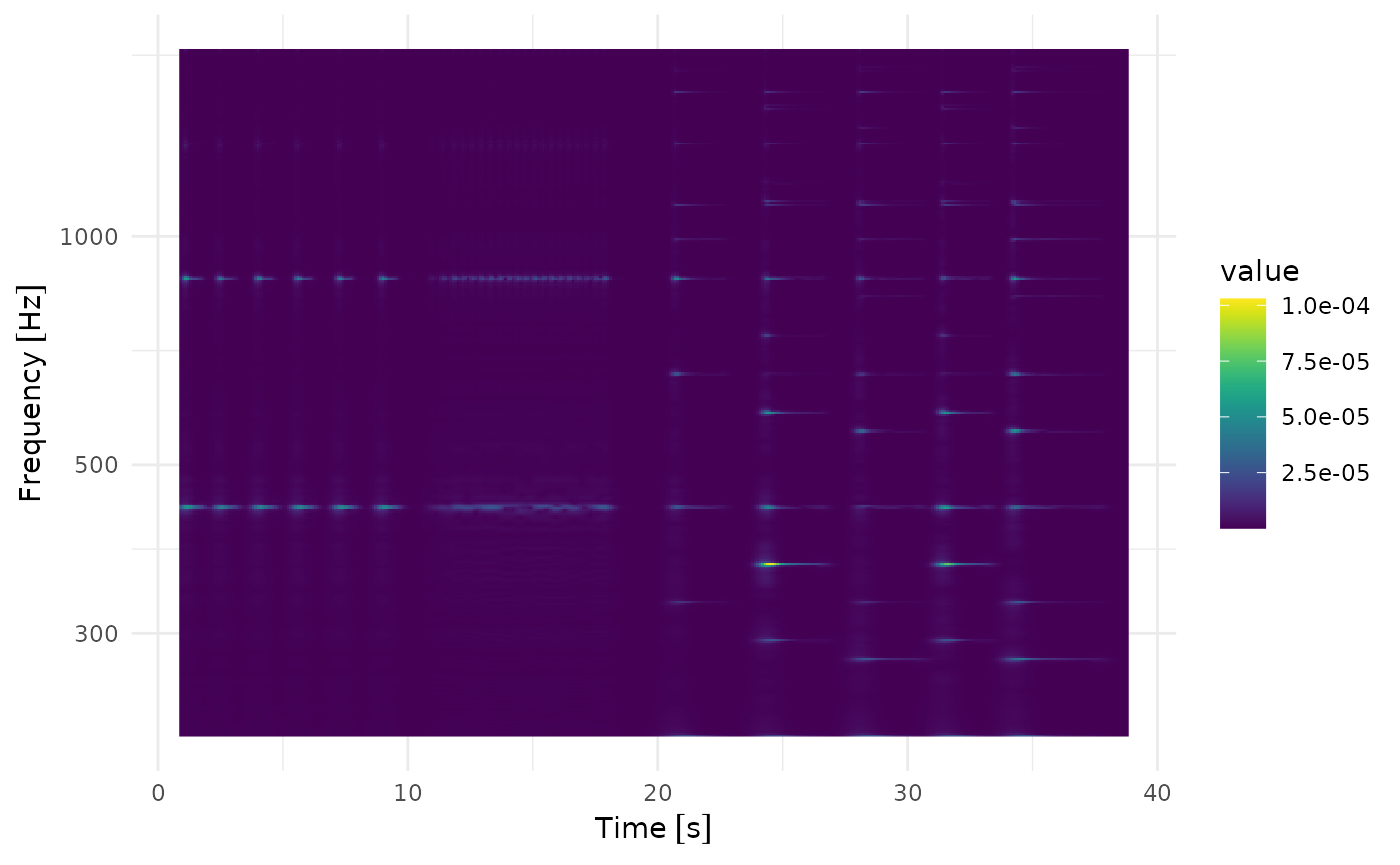
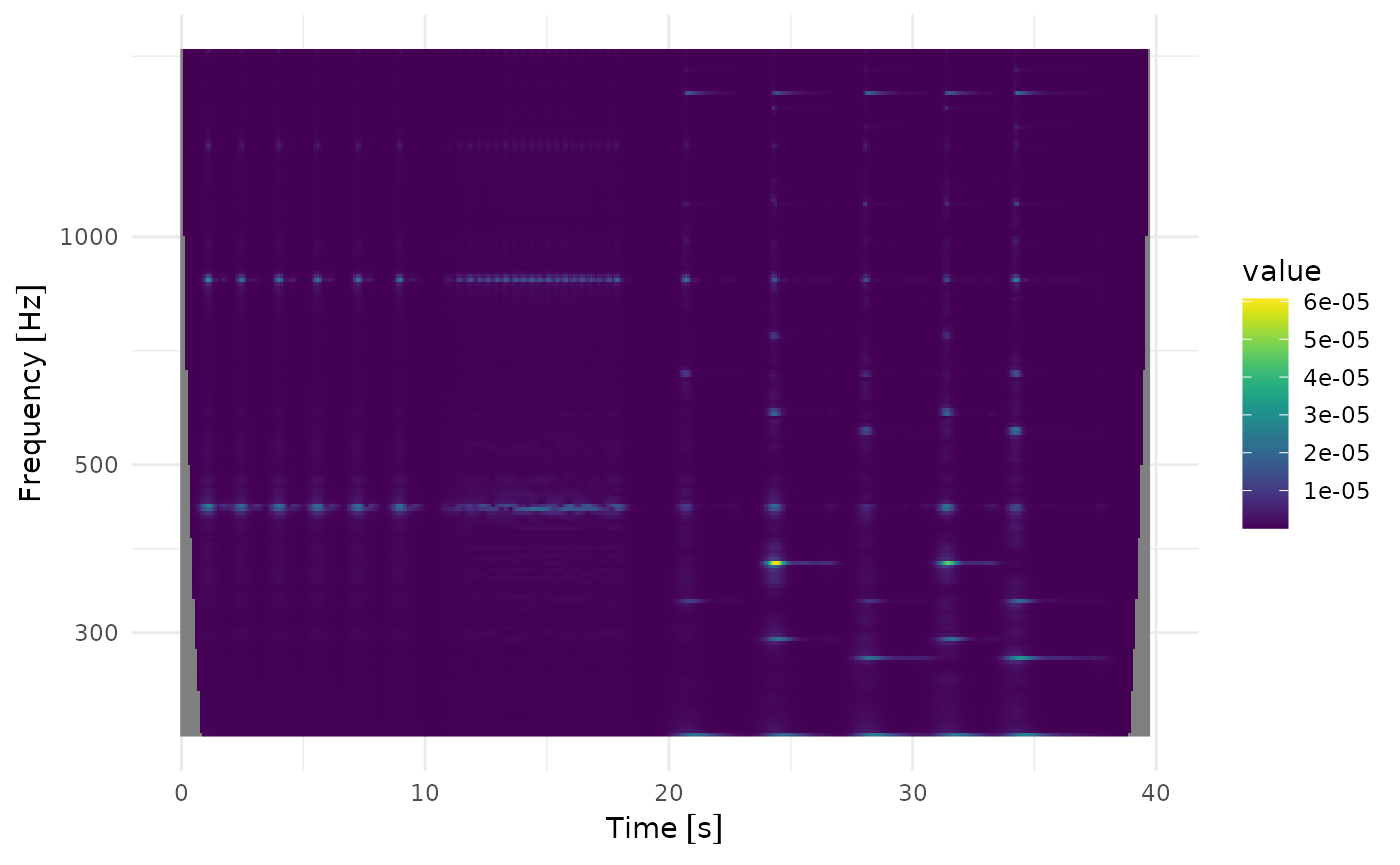
Deploying to gh-pages from @ lschneiderbauer/fCWTr@2b04123b9d5583991bd786f4ff58955c7fd760d0 🚀

diff --git a/articles/sigma.html b/articles/sigma.html
@@ -178,16 +178,14 @@ and some simple chords in the end.</p>
 <span><span class="co">#&gt; Error in get(paste0(generic, ".", class), envir = get_method_env()) : </span></span>
 <span><span class="co">#&gt;   object 'type_sum.accel' not found</span></span>
 <span></span>
-<span><span class="fu"><a href="../reference/fcwt_batch.html">fcwt_batch</a></span><span class="op">(</span></span>
+<span><span class="fu"><a href="../reference/fcwt.html">fcwt</a></span><span class="op">(</span></span>
 <span>  <span class="va">ts_piano_sample</span>,</span>
 <span>  x_sample_freq <span class="op">=</span> <span class="fu"><a href="../reference/u.html">u</a></span><span class="op">(</span><span class="fl">44.1</span>, <span class="st">"kHz"</span><span class="op">)</span> <span class="op">/</span> <span class="fl">4</span>,</span>
+<span>  sigma <span class="op">=</span> <span class="fl">1</span>,</span>
 <span>  y_sample_freq <span class="op">=</span> <span class="fu"><a href="../reference/u.html">u</a></span><span class="op">(</span><span class="fl">10</span>, <span class="st">"Hz"</span><span class="op">)</span>,</span>
 <span>  freq_begin <span class="op">=</span> <span class="fu"><a href="../reference/u.html">u</a></span><span class="op">(</span><span class="fl">220</span>, <span class="st">"Hz"</span><span class="op">)</span>,</span>
 <span>  freq_end <span class="op">=</span> <span class="fu"><a href="../reference/u.html">u</a></span><span class="op">(</span><span class="fl">440</span>, <span class="st">"Hz"</span><span class="op">)</span> <span class="op">*</span> <span class="fl">4</span>,</span>
-<span>  <span class="co"># 5 octaves, 12 keys per octave, 3 frequencies per key</span></span>
-<span>  n_freqs <span class="op">=</span> <span class="fl">12</span> <span class="op">*</span> <span class="fl">5</span> <span class="op">*</span> <span class="fl">3</span>,</span>
-<span>  sigma <span class="op">=</span> <span class="fl">1</span>,</span>
-<span>  freq_scale <span class="op">=</span> <span class="st">"log"</span></span>
+<span>  n_freqs <span class="op">=</span> <span class="fl">12</span> <span class="op">*</span> <span class="fl">5</span> <span class="op">*</span> <span class="fl">3</span></span>
 <span><span class="op">)</span> <span class="op">|&gt;</span></span>
 <span>  <span class="fu"><a href="https://rdrr.io/r/graphics/plot.default.html" class="external-link">plot</a></span><span class="op">(</span><span class="op">)</span></span></code></pre></div>
 <p><img src="sigma_files/figure-html/unnamed-chunk-6-1.png" width="100%"></p>
@@ -203,18 +201,15 @@ and some simple chords in the end.</p>
 <span><span class="co">#&gt; $freq</span></span>
 <span><span class="co">#&gt; 14.74277 [Hz]</span></span></code></pre></div>
 <div class="sourceCode" id="cb8"><pre class="downlit sourceCode r">
-<code class="sourceCode R"><span><span class="kw"><a href="https://rdrr.io/r/base/library.html" class="external-link">library</a></span><span class="op">(</span><span class="va"><a href="https://ggplot2.tidyverse.org" class="external-link">ggplot2</a></span><span class="op">)</span></span>
-<span></span>
-<span><span class="fu"><a href="../reference/fcwt_batch.html">fcwt_batch</a></span><span class="op">(</span></span>
+<code class="sourceCode R"><span></span>
+<span><span class="fu"><a href="../reference/fcwt.html">fcwt</a></span><span class="op">(</span></span>
 <span>  <span class="va">ts_piano_sample</span>,</span>
 <span>  x_sample_freq <span class="op">=</span> <span class="fu"><a href="../reference/u.html">u</a></span><span class="op">(</span><span class="fl">44.1</span>, <span class="st">"kHz"</span><span class="op">)</span> <span class="op">/</span> <span class="fl">4</span>,</span>
+<span>  sigma <span class="op">=</span> <span class="fl">20</span>,</span>
 <span>  y_sample_freq <span class="op">=</span> <span class="fu"><a href="../reference/u.html">u</a></span><span class="op">(</span><span class="fl">10</span>, <span class="st">"Hz"</span><span class="op">)</span>,</span>
 <span>  freq_begin <span class="op">=</span> <span class="fu"><a href="../reference/u.html">u</a></span><span class="op">(</span><span class="fl">220</span>, <span class="st">"Hz"</span><span class="op">)</span>,</span>
 <span>  freq_end <span class="op">=</span> <span class="fu"><a href="../reference/u.html">u</a></span><span class="op">(</span><span class="fl">440</span>, <span class="st">"Hz"</span><span class="op">)</span> <span class="op">*</span> <span class="fl">4</span>,</span>
-<span>  <span class="co"># 5 octaves, 12 keys per octave, 3 frequencies per key</span></span>
-<span>  n_freqs <span class="op">=</span> <span class="fl">12</span> <span class="op">*</span> <span class="fl">5</span> <span class="op">*</span> <span class="fl">3</span>,</span>
-<span>  sigma <span class="op">=</span> <span class="fl">20</span>,</span>
-<span>  freq_scale <span class="op">=</span> <span class="st">"log"</span></span>
+<span>  n_freqs <span class="op">=</span> <span class="fl">12</span> <span class="op">*</span> <span class="fl">5</span> <span class="op">*</span> <span class="fl">3</span></span>
 <span><span class="op">)</span> <span class="op">|&gt;</span></span>
 <span>  <span class="fu"><a href="https://rdrr.io/r/graphics/plot.default.html" class="external-link">plot</a></span><span class="op">(</span><span class="op">)</span></span></code></pre></div>
 <p><img src="sigma_files/figure-html/unnamed-chunk-8-1.png" width="100%"></p>
@@ -234,16 +229,15 @@ have</p>
 <p>and so we barely have a time resolution of one second. As we can see,
 we can not resolve the beats between second 12 and 18 anymore:</p>
 <div class="sourceCode" id="cb10"><pre class="downlit sourceCode r">
-<code class="sourceCode R"><span><span class="fu"><a href="../reference/fcwt_batch.html">fcwt_batch</a></span><span class="op">(</span></span>
+<code class="sourceCode R"><span></span>
+<span><span class="fu"><a href="../reference/fcwt.html">fcwt</a></span><span class="op">(</span></span>
 <span>  <span class="va">ts_piano_sample</span>,</span>
 <span>  x_sample_freq <span class="op">=</span> <span class="fu"><a href="../reference/u.html">u</a></span><span class="op">(</span><span class="fl">44.1</span>, <span class="st">"kHz"</span><span class="op">)</span> <span class="op">/</span> <span class="fl">4</span>,</span>
+<span>  sigma <span class="op">=</span> <span class="fl">100</span>,</span>
 <span>  y_sample_freq <span class="op">=</span> <span class="fu"><a href="../reference/u.html">u</a></span><span class="op">(</span><span class="fl">10</span>, <span class="st">"Hz"</span><span class="op">)</span>,</span>
 <span>  freq_begin <span class="op">=</span> <span class="fu"><a href="../reference/u.html">u</a></span><span class="op">(</span><span class="fl">220</span>, <span class="st">"Hz"</span><span class="op">)</span>,</span>
 <span>  freq_end <span class="op">=</span> <span class="fu"><a href="../reference/u.html">u</a></span><span class="op">(</span><span class="fl">440</span>, <span class="st">"Hz"</span><span class="op">)</span> <span class="op">*</span> <span class="fl">4</span>,</span>
-<span>  <span class="co"># 3 octaves, 12 keys per octave, 10 frequencies per key</span></span>
-<span>  n_freqs <span class="op">=</span> <span class="fl">12</span> <span class="op">*</span> <span class="fl">3</span> <span class="op">*</span> <span class="fl">10</span>,</span>
-<span>  sigma <span class="op">=</span> <span class="fl">100</span>,</span>
-<span>  freq_scale <span class="op">=</span> <span class="st">"log"</span></span>
+<span>  n_freqs <span class="op">=</span> <span class="fl">12</span> <span class="op">*</span> <span class="fl">5</span> <span class="op">*</span> <span class="fl">3</span></span>
 <span><span class="op">)</span> <span class="op">|&gt;</span></span>
 <span>  <span class="fu"><a href="https://rdrr.io/r/graphics/plot.default.html" class="external-link">plot</a></span><span class="op">(</span><span class="op">)</span></span></code></pre></div>
 <p><img src="sigma_files/figure-html/unnamed-chunk-10-1.png" width="100%"></p>
